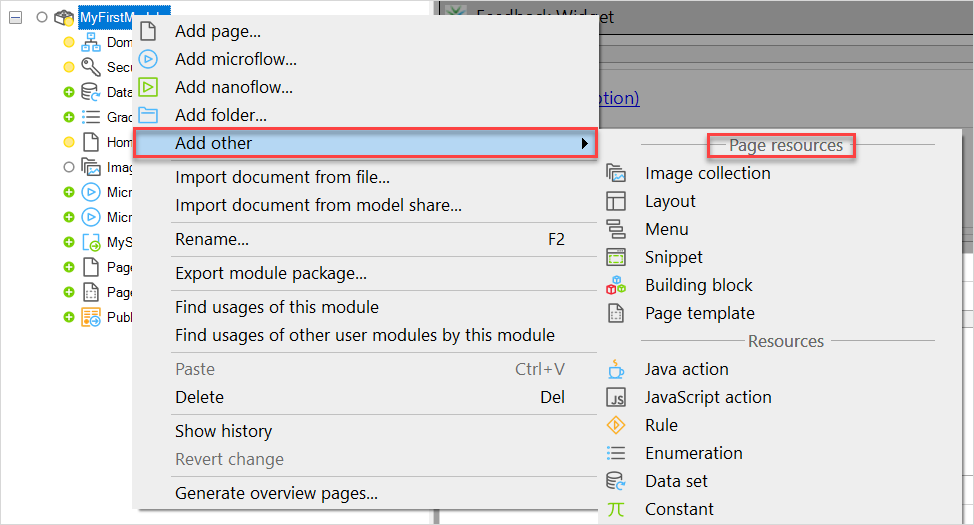
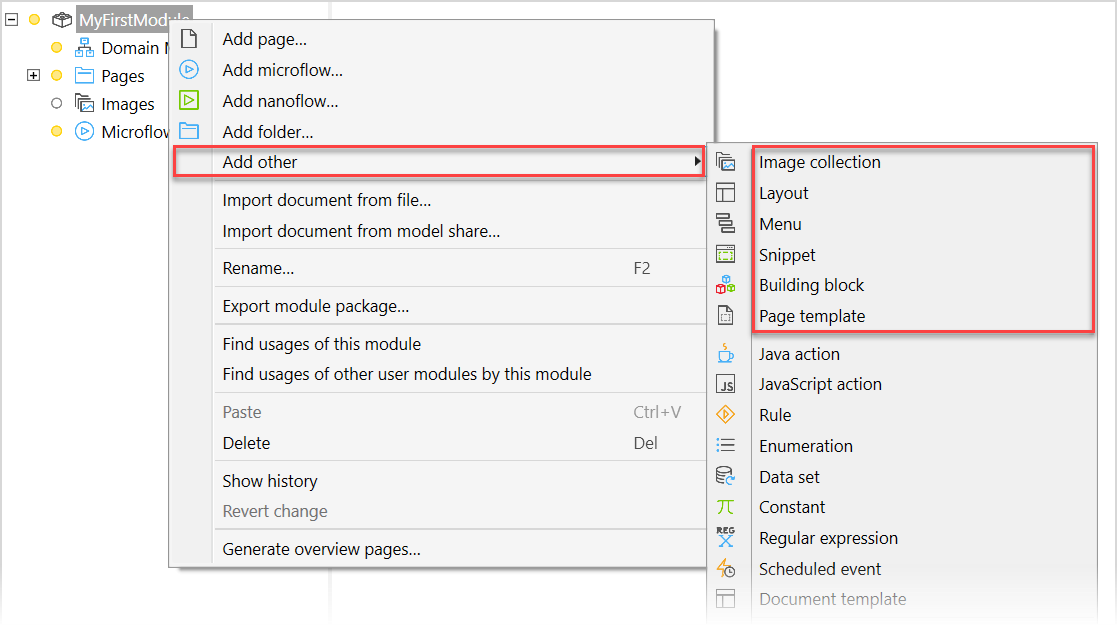
Fix warning and update screenshots

Changed region(s): [[0.0, 0.0, 1.0, 1.0], [0.5544, 0.3962, 0.5852, 0.4571], [0.0, 0.9752, 0.0308, 1.0]]

diff --git a/content/releasenotes/studio-pro/8.3.md b/content/releasenotes/studio-pro/8.3.md
@@ -30,7 +30,7 @@ We have decided to retract version 8.3.0 due to an issue related to committing m
 * The width of layout grid columns can now be configured separately for phone, tablet, and responsive browsers (rather than just responsive). You can now easily tweak your layout grid to show a sensible number of columns side by side for different devices, rather than having to rely on the Mendix defaults.
 * [Atlas UI](/howto/front-end/atlas-ui) can now detect an operating system's dark mode in [native mobile](/refguide/native-mobile) apps. This allows an end-user to use the dark mode automatically when available for their app's theming.
 * The **Show source file in Explorer** context menu item has been added for Java actions in [Project Explorer](/refguide/project-explorer).
-* We updated the [View](/refguide/studio-pro-overview#view) > **Full Screen** option so that Studio Pro hides the title bar and makes the window fill the entire screen. We also added **View** > **Distraction Free Mode**, which is the same as **Full Screen** but also closes all [dockable window panes](/refguide/studio-pro-overview#dockable-panes).
+* We updated the [View](/refguide/studio-pro-overview#view) > **Full Screen** option so that Studio Pro hides the title bar and makes the window fill the entire screen. We also added **View** > **Distraction Free Mode**, which is the same as **Full Screen** but also closes all dockable window panes.
 * You can now give a description of REST parameters, which will be included in the OpenApi 2.0 (Swagger) documentation.
 
 ### Improvements
@@ -49,7 +49,7 @@ We have decided to retract version 8.3.0 due to an issue related to committing m
 
 #### Version Control Improvements
 
-We improved the [Changes](/refguide/studio-pro-overview#dockable-panes) pane to make reviewing changes more efficient. This pane now has two levels instead of three. That means when you zoom into a changed document, you can review all the changes within that document without going back and forth. The zoomed-in level of the pane is split into two grids, with elements on the left and properties on the right. Selecting an element on the left presents the changed properties on the right. To go back to the list of changed documents, click **Back**. By getting rid of the breadcrumbs bar, there is some extra space to show changes, too. Please note that this is a complete rewrite of the **Changes** pane, and if you find issues, you can temporarily revert to the old pane through **Edit** > [Preferences](/refguide/preferences-dialog#new-changes).
+We improved the [Changes](/refguide/changes-pane) pane to make reviewing changes more efficient. This pane now has two levels instead of three. That means when you zoom into a changed document, you can review all the changes within that document without going back and forth. The zoomed-in level of the pane is split into two grids, with elements on the left and properties on the right. Selecting an element on the left presents the changed properties on the right. To go back to the list of changed documents, click **Back**. By getting rid of the breadcrumbs bar, there is some extra space to show changes, too. Please note that this is a complete rewrite of the **Changes** pane, and if you find issues, you can temporarily revert to the old pane through **Edit** > [Preferences](/refguide/preferences-dialog#new-changes).
 
 Dragging activities in microflows results in fewer changes than before. This makes interpreting those changes to the microflow simpler.
 

diff --git a/content/releasenotes/studio-pro/8.4.md b/content/releasenotes/studio-pro/8.4.md
@@ -62,7 +62,7 @@ For more information on this release, see the [Mendix 8.4 – We Deliver Good Ne
 
 #### Version Control Improvements
 
-* We improved keyboard support in the updated [Changes](/refguide/studio-pro-overview#changes) pane. You can now inspect changes to all documents by using the arrow keys, <kbd>Enter</kbd>, and <kbd>Backspace</kbd>. 
+* We improved keyboard support in the updated [Changes](/refguide/changes-pane) pane. You can now inspect changes to all documents by using the arrow keys, <kbd>Enter</kbd>, and <kbd>Backspace</kbd>. 
 * Also in the **Changes** pane, we now hide changes that are purely visual. Examples of purely visual changes are moving microflow activities or domain model entities and changing how the arrows are connected to them. By hiding those changes, you can focus on the changes that really matter. However, if you need to, you can show such visual changes anyway by clicking the new **Show purely visual changes** button in the toolbar.
 
 #### Other Improvements
@@ -100,7 +100,7 @@ For more information on this release, see the [Mendix 8.4 – We Deliver Good Ne
 * We fixed an issue where discarding changes displayed an empty document afterwards. (Ticket 90993)
 * We fixed an issue in microflow optimization related to list aggregation. An optimization was hit too eagerly if there where multiple paths through a microflow to aggregate actions. (Ticket 90083)
 * We fixed an issue where running an asynchronous microflow failed if it changed the accessibility of an attribute from **Read, Write** to **Read Only**. (Ticket 82741)
-* We fixed an issue where using [Full Screen](/refguide/studio-pro-overview#other-view) or [Distraction Free Mode](/refguide/studio-pro-overview#other-view)) on a secondary monitor moved the window to the primary monitor. (Ticket  91212)
+* We fixed an issue where using [Full Screen](/refguide/view-menu#full-screen) or [Distraction Free Mode](/refguide/view-menu#distraction-free)) on a secondary monitor moved the window to the primary monitor. (Ticket  91212)
 * The native [tab container](/refguide/tab-container) now supports conditional visibility. (Ticket 90017)
 * We fixed an issue where a failed login caused the next microflows throw errors. (Tickets 88971, 89196, 90471)
 * The [date picker](/refguide/date-picker)'s placeholders now respect the custom date formats that have been implemented by the user. (Ticket 89996)

diff --git a/content/refguide/view-menu.md b/content/refguide/view-menu.md
@@ -66,7 +66,7 @@ For more information on debugging, see [How to Debug Microflows](/howto/monitori
 
 The **Breakpoints** pane shows all the breakpoints in your app project. You can enable and disable breakpoints from here.
 
-### 12.2 Debugger
+### 12.2 Debugger {#debugger}
 
 The **Debugger** tool can be used to debug your application.
 
@@ -79,7 +79,7 @@ In the **Variables** pane, you can view the current values of variables, lists, 
 The **Full Screen** mode hides the title bar and makes the window fill the entire screen. This version of **Full Screen** was introduced in Studio Pro [8.3.0](/releasenotes/studio-pro/8.3#830); in previous versions, the **Full Screen** mode closed all dockable window panes. 
 Shortcut key: <kbd>F11</kbd>
 
-## 14 Distraction Free Mode
+## 14 Distraction Free Mode {#distraction-free}
 
 The **Distraction Free Mode** does the same as the **Full Screen** mode above, but also closes all dockable window panes. This was introduced in Studio Pro [8.3.0](/releasenotes/studio-pro/8.3#830).
 

diff --git a/content/refguide/studio-pro-overview.md b/content/refguide/studio-pro-overview.md
@@ -78,7 +78,7 @@ In the **Project** menu, you can view and/or manipulate settings that are connec
 | **Stop** | Stops the currently running project. | <kbd>Shift</kbd> + <kbd>F5</kbd> |
 | **onfiguration** | Sets the configuration level (**Default**). | |
 | **efault log level** | Allows setting the default log level before running the project locally. The options are **Trace**, **Debug**, **Info** (default), **Warning**, **Error**, **Critical**. |   |
-| **Debug** | Allows you to connect the [Debugger](#dockable-panes). | |
+| **Debug** | Allows you to connect the [Debugger](view-menu#debugger). | |
 | **Responsive Browser** | Shows the web client for the currently running project in the browser. | <kbd>F9</kbd> |
 | **Tablet Browser** | Shows the tablet mobile client for the currently running project in the browser. | <kbd>Ctrl</kbd> + <kbd>Shift</kbd> + <kbd>F9</kbd> |
 | **Phone Browser** | Shows the mobile client for the currently running project in the browser. | <kbd>Ctrl</kbd> + <kbd>F9</kbd> |

diff --git a/content/refguide/changes-pane.md b/content/refguide/changes-pane.md
@@ -14,7 +14,7 @@ This pane consists of the following:
 
 * The [top bar](#top-bar) contains various buttons, such as **Back**, **Go to**, **Tasks**. 
 * The [top level](#top-level) shows you a list of documents that were changed, for example, a page where a widget was deleted
-* The [zoomed-in level](#zommed-in-level) of the pane is split into two grids, with elements in the left grid and changed properties of the selected element in the right grid
+* The [zoomed-in level](#zoomed-in-level) of the pane is split into two grids, with elements in the left grid and changed properties of the selected element in the right grid
 
 ## 2 Top Bar {#top-bar}
 

diff --git a/content/refguide/preferences-dialog.md b/content/refguide/preferences-dialog.md
@@ -81,7 +81,7 @@ This option requires a restart.
 
 #### 5.2.1 New Version of the Changes Pane {#new-changes}
 
-Select this option when you want to enable the new version of the [Changes](studio-pro-overview#changes) pane. Should you find any issues in the new version, you can switch back to the old version by unselecting this option.
+Select this option when you want to enable the new version of the [Changes](changes-pane) pane. Should you find any issues in the new version, you can switch back to the old version by unselecting this option.
 
 {{% alert type="info" %}}
 This option requires a restart.

diff --git a/content/refguide/page-resources.md b/content/refguide/page-resources.md
@@ -26,7 +26,7 @@ To add a resource document, do the following:
 
     ![](attachments/page-resources/project-explorer-page-resources.png)
 
-2. In the **Page Resources** category, select the document you would like to add to your project.
+2. Select the document you would like to add to your project.
 
 ## 3 Read More
 
